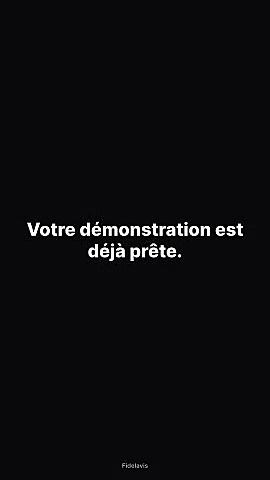
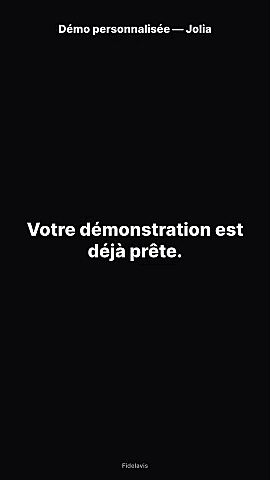
pilot(jolia) v6 : Anna visage cadré + subtitle + title permanent
Restructuration layout selon retours utilisateur :
- Top_title (0-30s) : "Démo personnalisée — {{restaurant_name}}" en haut
- Avatar_circle : haut-gauche (14% x 18% y), 200×200px, y_alignment=20%
  (centre la source sur le visage d'Anna au lieu du torse)
- Avatar_subtitle (NEW) : à droite d'Anna, "Découvrez votre wallet de
  fidélité personnalisé", aligné gauche
- Mockup_right : positionné y=62% (moitié basse), 75% hauteur, wallet
  + coupon mieux lisibles
- Title_intro supprimé (remplacé par Top_title permanent)

Changed region(s): [[0.2074, 0.0312, 0.6222, 0.0938], [0.6815, 0.0312, 0.7704, 0.0938]]

diff --git a/jolia-video-production-report.md b/jolia-video-production-report.md
@@ -1,19 +1,19 @@
 # Rapport de production vidéo — **Jolia**
-_Généré le 2026-05-31 à 19:05_
+_Généré le 2026-05-31 à 19:22_
 
 ## ✅ Vidéo produite
 
 - **Fichier local** : `dm_videos/jolia-dm.mp4`
-- **Poids** : 0.43 MB
-- **Durée totale du pipeline** : 11.3 s
-- **URL Creatomate (CDN)** : https://f002.backblazeb2.com/file/creatomate-c8xg3hsxdu/a66cee81-ec3b-4b4c-a227-b4f644dcfa09.mp4
+- **Poids** : 0.45 MB
+- **Durée totale du pipeline** : 11.5 s
+- **URL Creatomate (CDN)** : https://f002.backblazeb2.com/file/creatomate-c8xg3hsxdu/90bc4c3e-859a-43a9-b5e3-a1deab66bb48.mp4
 
 ## ⏱ Durées
 
 - Script parlé estimé : **~11.2 s** (28 mots)
 - Vidéo finale : **30 s** (1080×1920, 30 fps)
 - Rendu HeyGen : ~0 s
-- Rendu Creatomate : ~11.3 s
+- Rendu Creatomate : ~11.5 s
 
 ## 💰 Coût
 
@@ -27,7 +27,7 @@ _(Vérifier les chiffres exacts dans les dashboards HeyGen et Creatomate.)_
 
 - HeyGen `video_id` : `<reused>`
 - HeyGen `video_url` : https://files2.heygen.ai/aws_pacific/avatar_tmp/288630a07eca49aa87460535cee78838/5f1c268c304e40e7b0c45bcedf09971c.mp4?Expires=1780849758&Signature=cCoA8M3s8Ay2xuG66zAt87NH8xMgksHtbdi-Ttg7HqbaF~H6~76oXDZqPSd18YdF8dkHRQIjS1voiDul9h0cL1icQY324AYF2jGfh6TevYrGhFoOla89QLTV5-n1MC5ffXlzXH2G3XTm2q9qUT-qmFFsj4c3i-UxcmoGi8-ZRYx4BGoZohlt96dDzTflUnuZ10hZhiXt-uWFALCGZYaOEDW3195TIghJa6Q1-B~-oB~4-Fu9H-inbAWBo0TWP5t~pdlrcORe1G4QAcSKqVhG8C0Ucb5CxqzgtHawRN9u5Q7b~56j~XIy1irXIGIUynHoZZGn340NsQRDzJCt~Ofhcw__&Key-Pair-Id=K38HBHX5LX3X2H
-- Creatomate `render_id` : `a66cee81-ec3b-4b4c-a227-b4f644dcfa09`
+- Creatomate `render_id` : `90bc4c3e-859a-43a9-b5e3-a1deab66bb48`
 
 ## 🎬 Scènes clés
 
